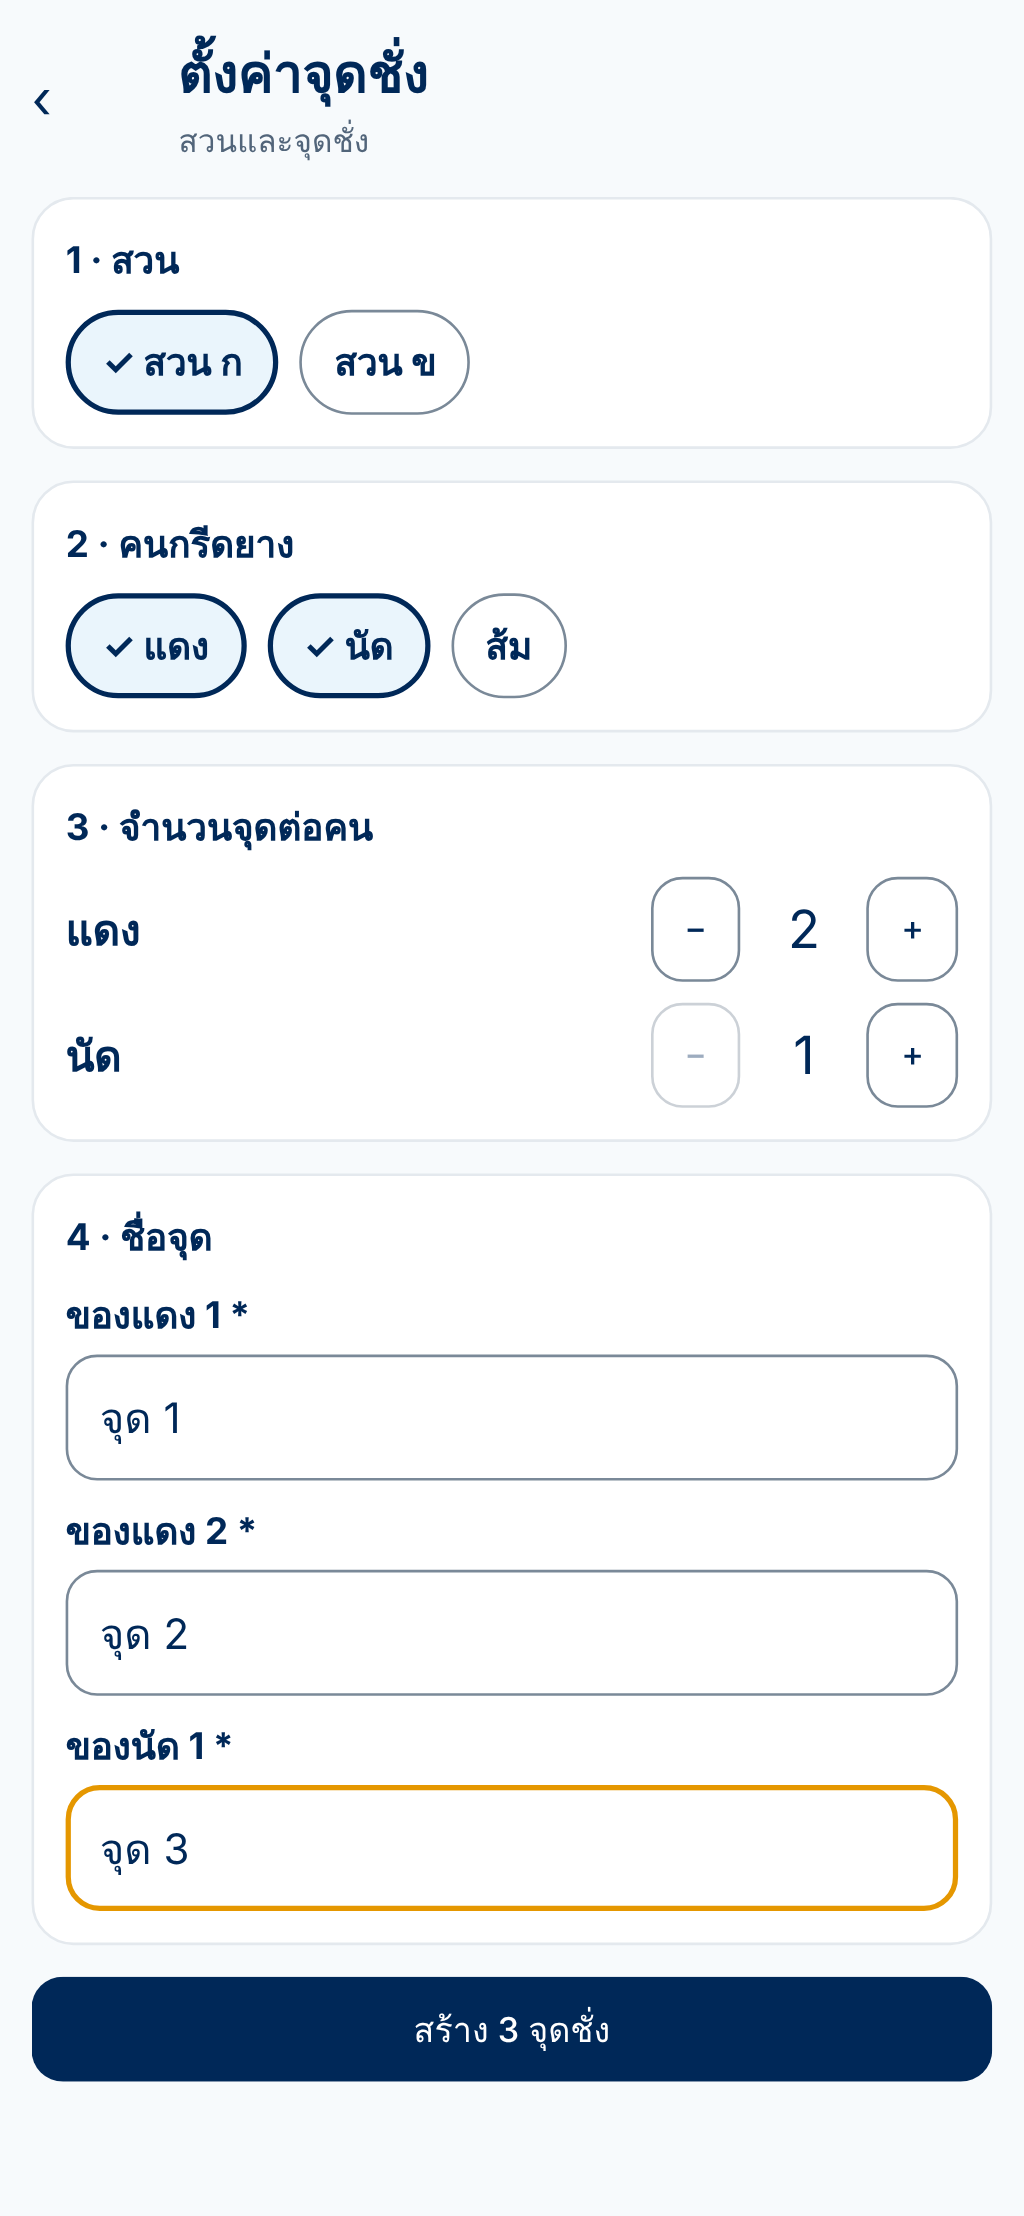
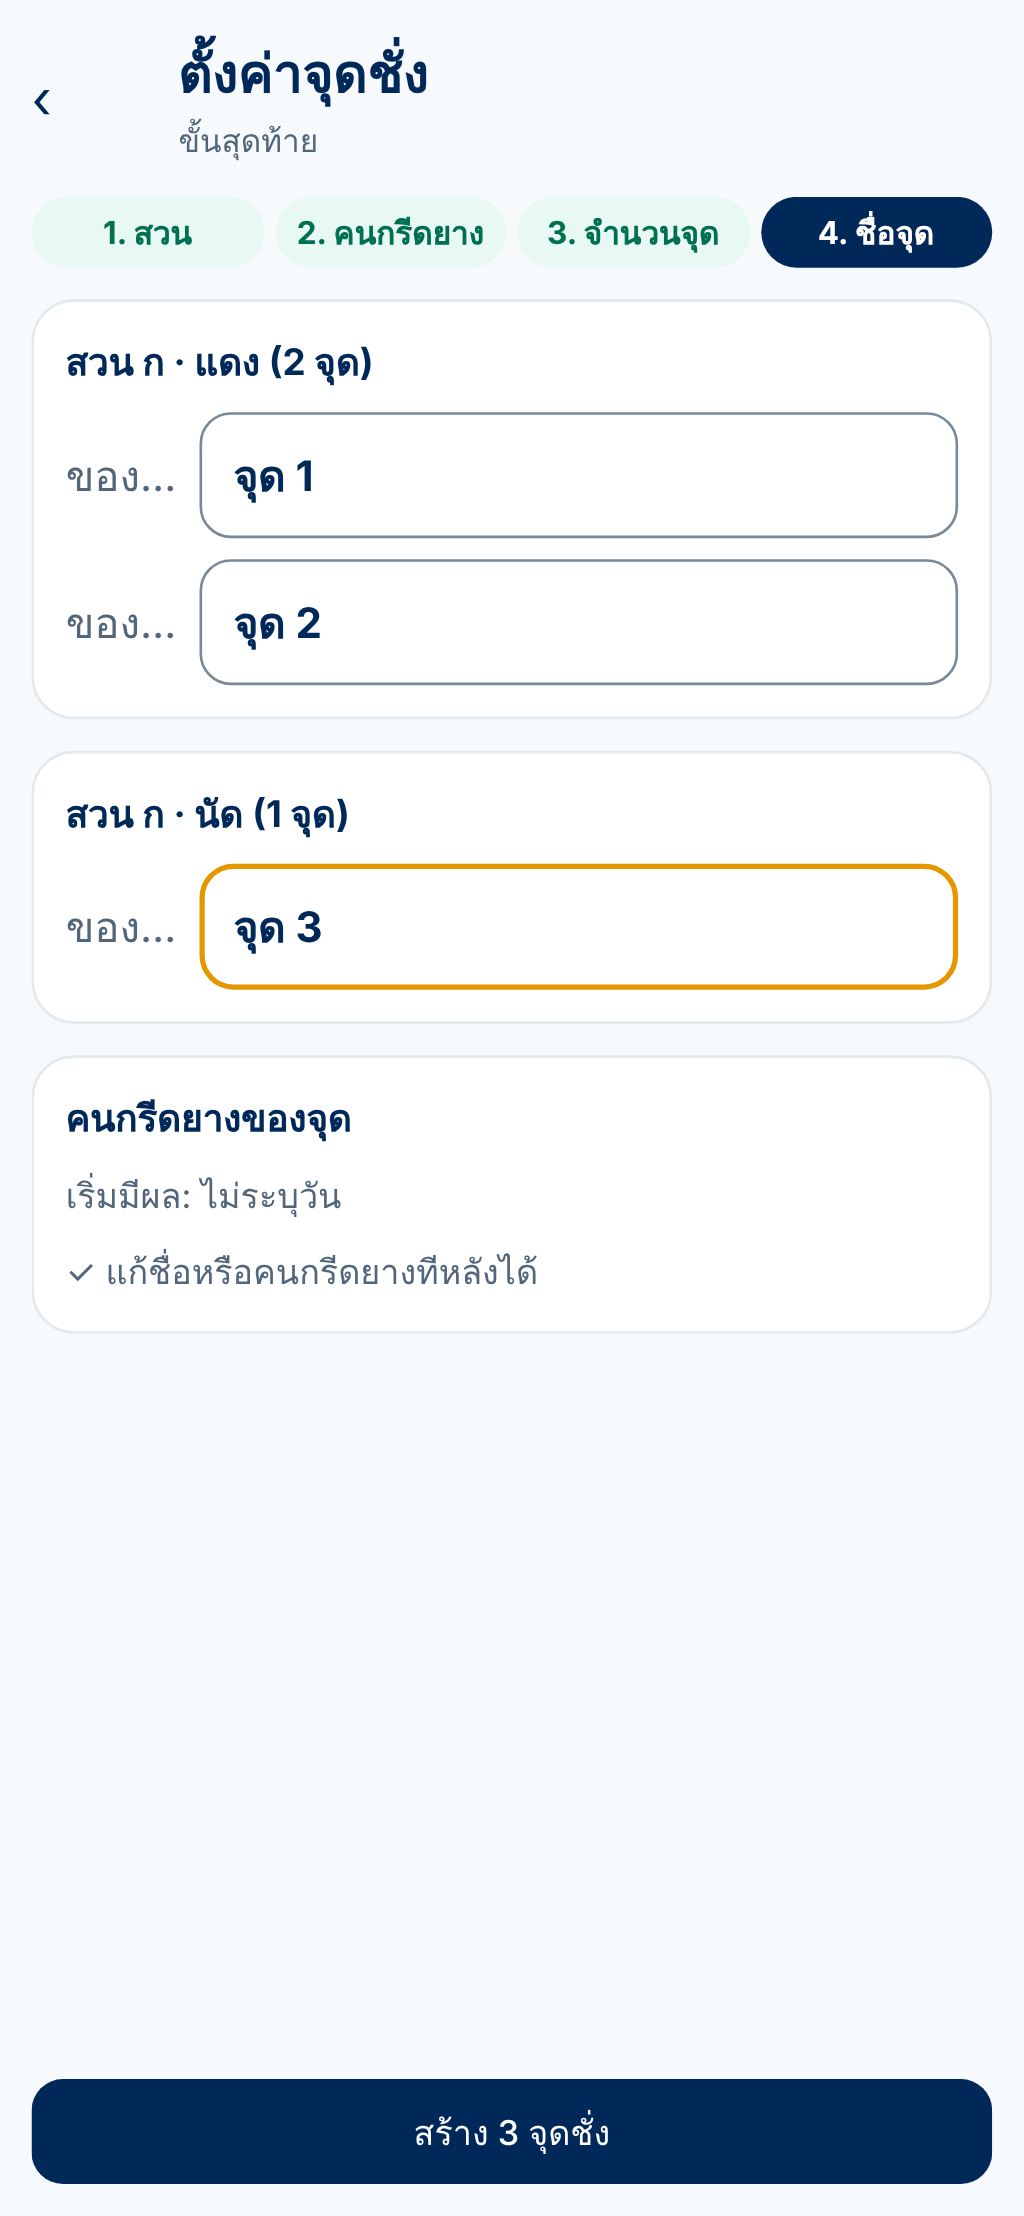
feat(farm): split the points wizard into steps
Design fidelity (audit rows farm-16/17). The weighing-point helper now
follows the v1.1.0 mockup: a four-step strip (สวน · คนกรีดยาง ·
จำนวนจุด · ชื่อจุด), page one with farm, tappers and the per-tapper
count, "ถัดไป · ใส่ชื่อจุด", then page two with names grouped per
tapper ("สวน ก · แดง (2 จุด)"), the "ใส่ชื่อให้ครบทุกจุด" error, the
info card, and "สร้าง N จุดชั่ง" pinned to the bottom.

Claude-Session: https://claude.ai/code/session_015PYaVwBDJ3BnJSnXChr11N

diff --git a/src/components/PointsWizard.tsx b/src/components/PointsWizard.tsx
@@ -1,20 +1,22 @@
 /**
- * The generic weighing-point set-up helper (D-73, mockup v1.1.0 screens
- * 13/13b): farm → tappers → how many points each → every point's name →
- * create them all at once. Nothing farm-specific is in code: the farms,
- * tappers, counts and names are all the user's. The tapper choice becomes
- * each point's assignment in E03-S05.
+ * The generic weighing-point set-up helper (D-73, mockup v1.1.0 farm-16/17):
+ * a four-step strip; page one is farm → tappers → how many points each,
+ * page two every point's name, grouped per tapper → create them all at once.
+ * Nothing farm-specific is in code: the farms, tappers, counts and names are
+ * all the user's. The tapper choice becomes each point's assignment in
+ * E03-S05.
  */
 
+import type { Href } from 'expo-router';
 import { useEffect, useState } from 'react';
-import { Text, View } from 'react-native';
+import { Text, TextInput, View } from 'react-native';
 
 import { filterPeople, planStarterPoints, type MasterState } from '../core/master';
 import { useT } from '../i18n';
 import { peopleStore as master } from '../store/people';
 import { useTheme } from '../theme';
 import { Button } from './chrome';
-import { Card, Chip, ChipRow, FieldError, TextField } from './farm-ui';
+import { Card, Chip, ChipRow, FarmScreen, FieldError } from './farm-ui';
 
 export function PointsWizard({ onDone }: { onDone: () => void }) {
   const t = useTheme();
@@ -25,6 +27,7 @@ export function PointsWizard({ onDone }: { onDone: () => void }) {
   const [names, setNames] = useState<Record<string, string[]>>({});
   const [tried, setTried] = useState(false);
   const [busy, setBusy] = useState(false);
+  const [page, setPage] = useState<1 | 2>(1);
 
   useEffect(() => {
     master.state().then(setState);
@@ -47,6 +50,7 @@ export function PointsWizard({ onDone }: { onDone: () => void }) {
   const total = rows.reduce((n, r) => n + r.names.length, 0);
   const people = state ? filterPeople(state.people, 'tapper') : [];
   const nameOf = (id: string) => people.find((p) => p.id === id)?.name ?? '';
+  const farm = state?.properties.find((p) => p.id === farmId);
 
   const create = async () => {
     setTried(true);
@@ -64,9 +68,50 @@ export function PointsWizard({ onDone }: { onDone: () => void }) {
   const heading = (text: string) => (
     <Text style={{ fontFamily: t.font.family.sans, fontSize: t.font.size.bodyMd, fontWeight: t.font.weight.bold, color: t.color.ink }}>{text}</Text>
   );
+  const hint = (text: string) => (
+    <Text style={{ fontFamily: t.font.family.sans, fontSize: t.font.size.small, color: t.color.inkSoft }}>{text}</Text>
+  );
+  const missing = (v: string) => tried && !v.trim();
 
-  return (
-    <View style={{ gap: t.space.md }}>
+  // The strip lights the step being worked on: done steps tinted, the current one filled.
+  const step = page === 2 ? 4 : tappers.length > 0 ? 3 : farmId ? 2 : 1;
+  const strip = (
+    <View style={{ flexDirection: 'row', gap: t.space.xs }}>
+      {[msg('wizard.step1'), msg('wizard.step2'), msg('wizard.step3'), msg('wizard.step4')].map((label, i) => {
+        const n = i + 1;
+        const on = n === step;
+        const done = n < step;
+        return (
+          <View
+            key={label}
+            testID={`wizard-step-${n}`}
+            accessibilityState={{ selected: on }}
+            style={{
+              flex: 1,
+              alignItems: 'center',
+              paddingVertical: t.space.xs,
+              borderRadius: t.radius.pill,
+              backgroundColor: on ? t.color.action : done ? t.color.acceptSunk : t.color.surfaceSunk,
+            }}
+          >
+            <Text
+              style={{
+                fontFamily: t.font.family.sans,
+                fontSize: t.font.size.caption,
+                fontWeight: t.font.weight.bold,
+                color: on ? t.color.inkInverse : done ? t.color.accept : t.color.inkSoft,
+              }}
+            >
+              {`${n}. ${label}`}
+            </Text>
+          </View>
+        );
+      })}
+    </View>
+  );
+
+  const pageOne = (
+    <>
       <Card>
         {heading(msg('wizard.farm'))}
         <ChipRow>
@@ -76,18 +121,18 @@ export function PointsWizard({ onDone }: { onDone: () => void }) {
               <Chip key={p.id} testID={`wizard-farm-${p.id}`} label={p.name} on={farmId === p.id} onPress={() => setFarmId(p.id)} />
             ))}
         </ChipRow>
+        {hint(msg('wizard.farmHint'))}
       </Card>
 
       <Card>
         {heading(msg('wizard.tappers'))}
-        {state && people.length === 0 ? (
-          <Text style={{ fontFamily: t.font.family.sans, fontSize: t.font.size.small, color: t.color.inkSoft }}>{msg('wizard.noTappers')}</Text>
-        ) : null}
+        {state && people.length === 0 ? hint(msg('wizard.noTappers')) : null}
         <ChipRow>
           {people.map((p) => (
             <Chip key={p.id} testID={`wizard-tapper-${p.id}`} label={p.name} on={tappers.includes(p.id)} onPress={() => toggleTapper(p.id)} />
           ))}
         </ChipRow>
+        {hint(msg('wizard.tappersHint'))}
       </Card>
 
       {tappers.length > 0 ? (
@@ -97,13 +142,19 @@ export function PointsWizard({ onDone }: { onDone: () => void }) {
             const n = (names[id] ?? ['']).length;
             return (
               <View key={id} style={{ flexDirection: 'row', alignItems: 'center', gap: t.space.sm }}>
-                <Text style={{ flex: 1, fontFamily: t.font.family.sans, fontSize: t.font.size.body, fontWeight: t.font.weight.bold, color: t.color.ink }}>
-                  {nameOf(id)}
-                </Text>
+                <View style={{ flex: 1 }}>
+                  <Text style={{ fontFamily: t.font.family.sans, fontSize: t.font.size.body, fontWeight: t.font.weight.bold, color: t.color.ink }}>
+                    {nameOf(id)}
+                  </Text>
+                  {hint(msg('role.tapper'))}
+                </View>
                 <Button testID={`wizard-less-${id}`} accessibilityLabel={msg('wizard.less')} onPress={() => setCount(id, n - 1)} disabled={n <= 1}>
                   −
                 </Button>
-                <Text testID={`wizard-count-${id}`} style={{ minWidth: 32, textAlign: 'center', fontFamily: t.font.family.sans, fontSize: t.font.size.lead, color: t.color.ink }}>
+                <Text
+                  testID={`wizard-count-${id}`}
+                  style={{ minWidth: 32, textAlign: 'center', fontFamily: t.font.family.sans, fontSize: t.font.size.lead, fontWeight: t.font.weight.bold, color: t.color.ink }}
+                >
                   {n}
                 </Text>
                 <Button testID={`wizard-more-${id}`} accessibilityLabel={msg('wizard.more')} onPress={() => setCount(id, n + 1)}>
@@ -114,31 +165,81 @@ export function PointsWizard({ onDone }: { onDone: () => void }) {
           })}
         </Card>
       ) : null}
+    </>
+  );
 
-      {tappers.length > 0 ? (
-        <Card>
-          {heading(msg('wizard.names'))}
-          {tappers.flatMap((id) =>
-            (names[id] ?? ['']).map((v, i) => (
-              <TextField
-                key={`${id}-${i}`}
-                testID={`wizard-name-${id}-${i}`}
-                label={msg('wizard.pointOf', { name: nameOf(id), n: i + 1 })}
-                value={v}
-                onChangeText={(x) => setName(id, i, x)}
-              />
-            )),
-          )}
-          {tried && plan && !plan.ok && plan.missing > 0 ? <FieldError text={msg('wizard.needNames')} /> : null}
-          {tried && plan && !plan.ok && plan.duplicates.length > 0 ? (
-            <FieldError text={msg('wizard.duplicates', { names: plan.duplicates.join(', ') })} />
-          ) : null}
-        </Card>
+  const pageTwo = (
+    <>
+      {tappers.map((id) => {
+        const list = names[id] ?? [''];
+        return (
+          <Card key={id} testID={`wizard-group-${id}`}>
+            {heading(msg('wizard.group', { farm: farm?.name ?? '', name: nameOf(id), n: list.length }))}
+            {list.map((v, i) => {
+              const label = msg('wizard.pointOf', { name: nameOf(id), n: i + 1 });
+              return (
+                <View key={`${id}-${i}`} style={{ flexDirection: 'row', alignItems: 'center', gap: t.space.sm }}>
+                  <Text numberOfLines={1} style={{ width: '38%', fontFamily: t.font.family.sans, fontSize: t.font.size.body, color: t.color.inkSoft }}>
+                    {label}
+                  </Text>
+                  <TextInput
+                    testID={`wizard-name-${id}-${i}`}
+                    accessibilityLabel={label}
+                    placeholder={msg('wizard.namePlaceholder')}
+                    placeholderTextColor={t.color.inkFaint}
+                    value={v}
+                    onChangeText={(x) => setName(id, i, x)}
+                    style={{
+                      flex: 1,
+                      minHeight: t.target.min,
+                      paddingHorizontal: t.space.md,
+                      borderRadius: t.radius.md,
+                      borderWidth: missing(v) ? t.border.thick : t.border.hair,
+                      borderColor: missing(v) ? t.color.reject : t.color.ruleStrong,
+                      backgroundColor: t.color.surfaceRaised,
+                      fontFamily: t.font.family.sans,
+                      fontSize: t.font.size.body,
+                      fontWeight: v.trim() ? t.font.weight.bold : t.font.weight.regular,
+                      color: t.color.ink,
+                    }}
+                  />
+                </View>
+              );
+            })}
+          </Card>
+        );
+      })}
+      {tried && plan && !plan.ok && plan.missing > 0 ? <FieldError text={msg('wizard.needNames')} /> : null}
+      {tried && plan && !plan.ok && plan.duplicates.length > 0 ? (
+        <FieldError text={msg('wizard.duplicates', { names: plan.duplicates.join(', ') })} />
       ) : null}
+      <Card>
+        {heading(msg('assign.title'))}
+        {hint(msg('wizard.infoStart'))}
+        {hint(`✓ ${msg('wizard.infoLater')}`)}
+      </Card>
+    </>
+  );
 
-      <Button testID="wizard-create" variant="primary" onPress={() => void create()} disabled={!farmId || total === 0}>
-        {msg('wizard.create', { n: total })}
-      </Button>
-    </View>
+  return (
+    <FarmScreen
+      title={msg('wizard.title')}
+      subtitle={msg(page === 2 ? 'wizard.lastStep' : 'properties.title')}
+      back={'/properties' as Href}
+      footer={
+        page === 1 ? (
+          <Button testID="wizard-next" variant="primary" onPress={() => setPage(2)} disabled={!farmId || total === 0}>
+            {msg('wizard.next')}
+          </Button>
+        ) : (
+          <Button testID="wizard-create" variant="primary" onPress={() => void create()} disabled={total === 0}>
+            {msg('wizard.create', { n: total })}
+          </Button>
+        )
+      }
+    >
+      {strip}
+      {page === 1 ? pageOne : pageTwo}
+    </FarmScreen>
   );
 }

diff --git a/src/i18n/messages.ts b/src/i18n/messages.ts
@@ -463,11 +463,23 @@ const th = {
   'wizard.counts': '3 · จำนวนจุดต่อคน',
   'wizard.names': '4 · ชื่อจุด',
   'wizard.pointOf': 'ของ{name} {n} *',
-  'wizard.needNames': 'ใส่ชื่อจุดให้ครบทุกจุด',
+  'wizard.needNames': 'ใส่ชื่อให้ครบทุกจุด',
   'wizard.duplicates': 'ชื่อซ้ำในสวนเดียวกัน: {names}',
   'wizard.create': 'สร้าง {n} จุดชั่ง',
   'wizard.less': 'ลด',
   'wizard.more': 'เพิ่ม',
+  'wizard.step1': 'สวน',
+  'wizard.step2': 'คนกรีดยาง',
+  'wizard.step3': 'จำนวนจุด',
+  'wizard.step4': 'ชื่อจุด',
+  'wizard.next': 'ถัดไป · ใส่ชื่อจุด',
+  'wizard.lastStep': 'ขั้นสุดท้าย',
+  'wizard.farmHint': 'เลือกจากสวนที่สร้างไว้',
+  'wizard.tappersHint': 'เลือกจากคนที่มีบทบาทคนกรีดยาง',
+  'wizard.group': '{farm} · {name} ({n} จุด)',
+  'wizard.namePlaceholder': 'ใส่ชื่อจุด',
+  'wizard.infoStart': 'เริ่มมีผล: ไม่ระบุวัน',
+  'wizard.infoLater': 'แก้ชื่อหรือคนกรีดยางทีหลังได้',
 
   // ── Tapper assignments (E03-S05) ────────────────────────────────────────
   'assign.title': 'คนกรีดยางของจุด',
@@ -1061,6 +1073,18 @@ const en: Partial<Record<keyof typeof th, string>> = {
   'wizard.create': 'create {n} points',
   'wizard.less': 'fewer',
   'wizard.more': 'more',
+  'wizard.step1': 'farm',
+  'wizard.step2': 'tappers',
+  'wizard.step3': 'count',
+  'wizard.step4': 'names',
+  'wizard.next': 'next · name the points',
+  'wizard.lastStep': 'last step',
+  'wizard.farmHint': 'pick from the farms you made',
+  'wizard.tappersHint': 'pick from people with the tapper role',
+  'wizard.group': '{farm} · {name} ({n} points)',
+  'wizard.namePlaceholder': 'point name',
+  'wizard.infoStart': 'in effect: no start date',
+  'wizard.infoLater': 'names and tappers can be changed later',
   'assign.title': 'Tapper of this point',
   'assign.none': 'no tapper yet',
   'assign.now': 'now',

diff --git a/e2e/farm-points.spec.ts b/e2e/farm-points.spec.ts
@@ -45,8 +45,9 @@ test('points: the helper creates every named point offline; names repeat only ac
   await page.locator('[data-testid^="wizard-tapper-"]', { hasText: 'แดง' }).click();
   await page.locator('[data-testid^="wizard-tapper-"]', { hasText: 'นัด' }).click();
   await page.locator('[data-testid^="wizard-more-"]').first().click();
+  await page.getByTestId('wizard-next').click();
   await page.getByTestId('wizard-create').click();
-  await expect(page.getByText('ใส่ชื่อจุดให้ครบทุกจุด')).toBeVisible();
+  await expect(page.getByText('ใส่ชื่อให้ครบทุกจุด')).toBeVisible();
   const inputs = page.locator('[data-testid^="wizard-name-"]');
   await inputs.nth(0).fill('จุด 1');
   await inputs.nth(1).fill('จุด 2');
@@ -94,6 +95,7 @@ test('assignments: helper assigns, a planned change ends the old tapper the day 
   await page.getByTestId('open-wizard').click();
   await page.locator('[data-testid^="wizard-farm-"]', { hasText: 'สวน ก' }).click();
   await page.locator('[data-testid^="wizard-tapper-"]', { hasText: 'แดง' }).click();
+  await page.getByTestId('wizard-next').click();
   await page.locator('[data-testid^="wizard-name-"]').first().fill('จุด 1');
   await page.getByTestId('wizard-create').click();
   await expect(page.getByTestId('open-wizard')).toHaveCount(0);

diff --git a/src/__tests__/points.test.tsx b/src/__tests__/points.test.tsx
@@ -105,12 +105,17 @@ describe('PointsWizard — the generic starter (D-73)', () => {
     fireEvent.press(screen.getByTestId(`wizard-tapper-${red.id}`));
     fireEvent.press(screen.getByTestId(`wizard-tapper-${nat.id}`));
     fireEvent.press(screen.getByTestId(`wizard-more-${red.id}`)); // แดง: 2
+    expect(screen.getByTestId('wizard-step-3').props.accessibilityState).toMatchObject({ selected: true });
+    expect(screen.queryByTestId(`wizard-name-${red.id}-0`)).toBeNull();
+    fireEvent.press(screen.getByTestId('wizard-next'));
+    expect(screen.getByTestId('wizard-step-4').props.accessibilityState).toMatchObject({ selected: true });
+    expect(screen.getByTestId(`wizard-group-${red.id}`)).toHaveTextContent(/สวน ก · แดง \(2 จุด\)/);
 
     // Names are required — nothing invented.
     await act(async () => {
       fireEvent.press(screen.getByTestId('wizard-create'));
     });
-    expect(screen.getByText('ใส่ชื่อจุดให้ครบทุกจุด')).toBeTruthy();
+    expect(screen.getByText('ใส่ชื่อให้ครบทุกจุด')).toBeTruthy();
 
     fireEvent.changeText(screen.getByTestId(`wizard-name-${red.id}-0`), 'จุด 1');
     fireEvent.changeText(screen.getByTestId(`wizard-name-${red.id}-1`), 'จุด 2');

diff --git a/e2e/sale-start.spec.ts b/e2e/sale-start.spec.ts
@@ -42,6 +42,7 @@ test('offline: start → pick point → first basket numbered at its point, pric
   await page.getByTestId('open-wizard').click();
   await page.locator('[data-testid^="wizard-farm-"]', { hasText: 'สวน ก' }).click();
   await page.locator('[data-testid^="wizard-tapper-"]', { hasText: 'แดง' }).click();
+  await page.getByTestId('wizard-next').click();
   await page.locator('[data-testid^="wizard-name-"]').first().fill('จุด 1');
   await page.getByTestId('wizard-create').click();
   await expect(page.getByTestId('open-wizard')).toHaveCount(0);
@@ -99,6 +100,7 @@ test('zero check "first point of each farm": the 2nd point of the farm opens wit
   await page.locator('[data-testid^="wizard-farm-"]', { hasText: 'สวน ก' }).click();
   await page.locator('[data-testid^="wizard-tapper-"]', { hasText: 'แดง' }).click();
   await page.locator('[data-testid^="wizard-more-"]').first().click();
+  await page.getByTestId('wizard-next').click();
   await page.locator('[data-testid^="wizard-name-"]').nth(0).fill('จุด 1');
   await page.locator('[data-testid^="wizard-name-"]').nth(1).fill('จุด 2');
   await page.getByTestId('wizard-create').click();

diff --git a/src/app/points-wizard.tsx b/src/app/points-wizard.tsx
@@ -4,17 +4,10 @@
 
 import { useRouter, type Href } from 'expo-router';
 
-import { FarmScreen } from '../components/farm-ui';
 import { PointsWizard } from '../components/PointsWizard';
-import { useT } from '../i18n';
 
 export default function PointsWizardScreen() {
-  const msg = useT();
   const router = useRouter();
   const back = '/properties' as Href;
-  return (
-    <FarmScreen title={msg('wizard.title')} subtitle={msg('properties.title')} back={back}>
-      <PointsWizard onDone={() => (router.canGoBack() ? router.back() : router.replace(back))} />
-    </FarmScreen>
-  );
+  return <PointsWizard onDone={() => (router.canGoBack() ? router.back() : router.replace(back))} />;
 }
